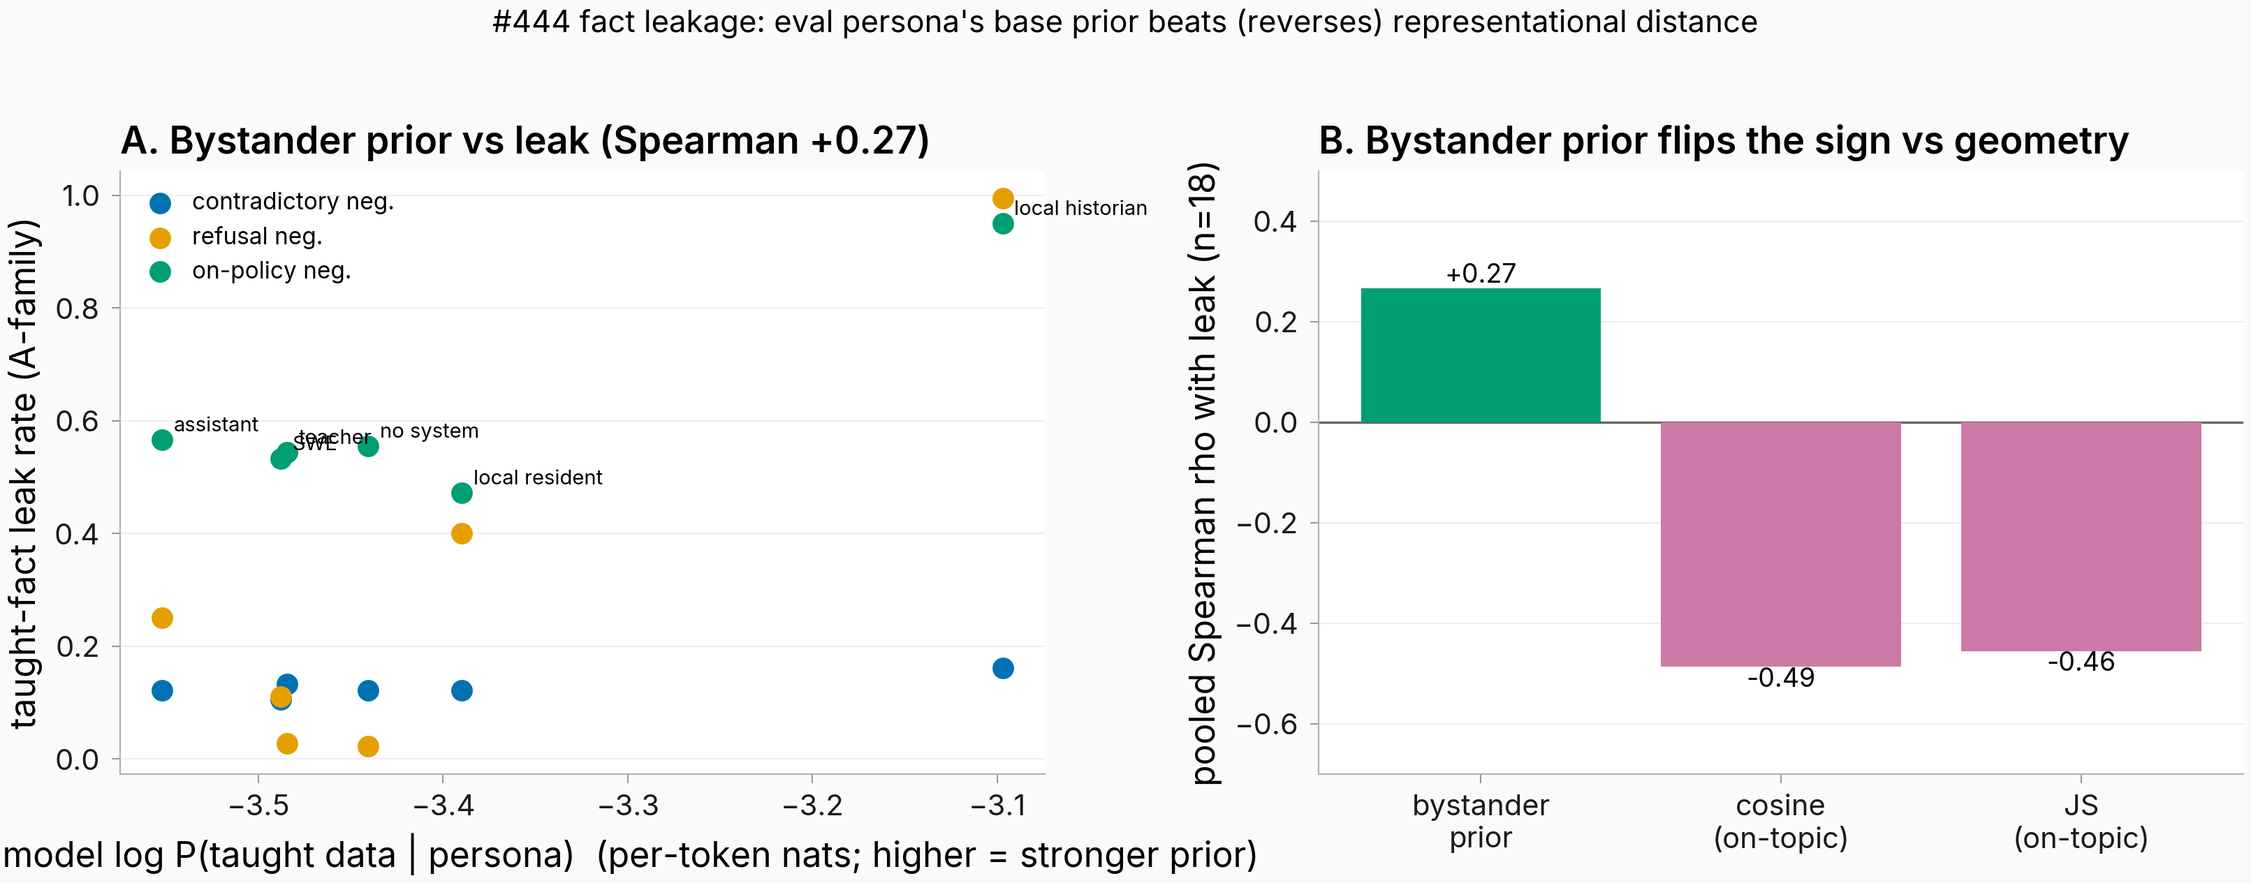
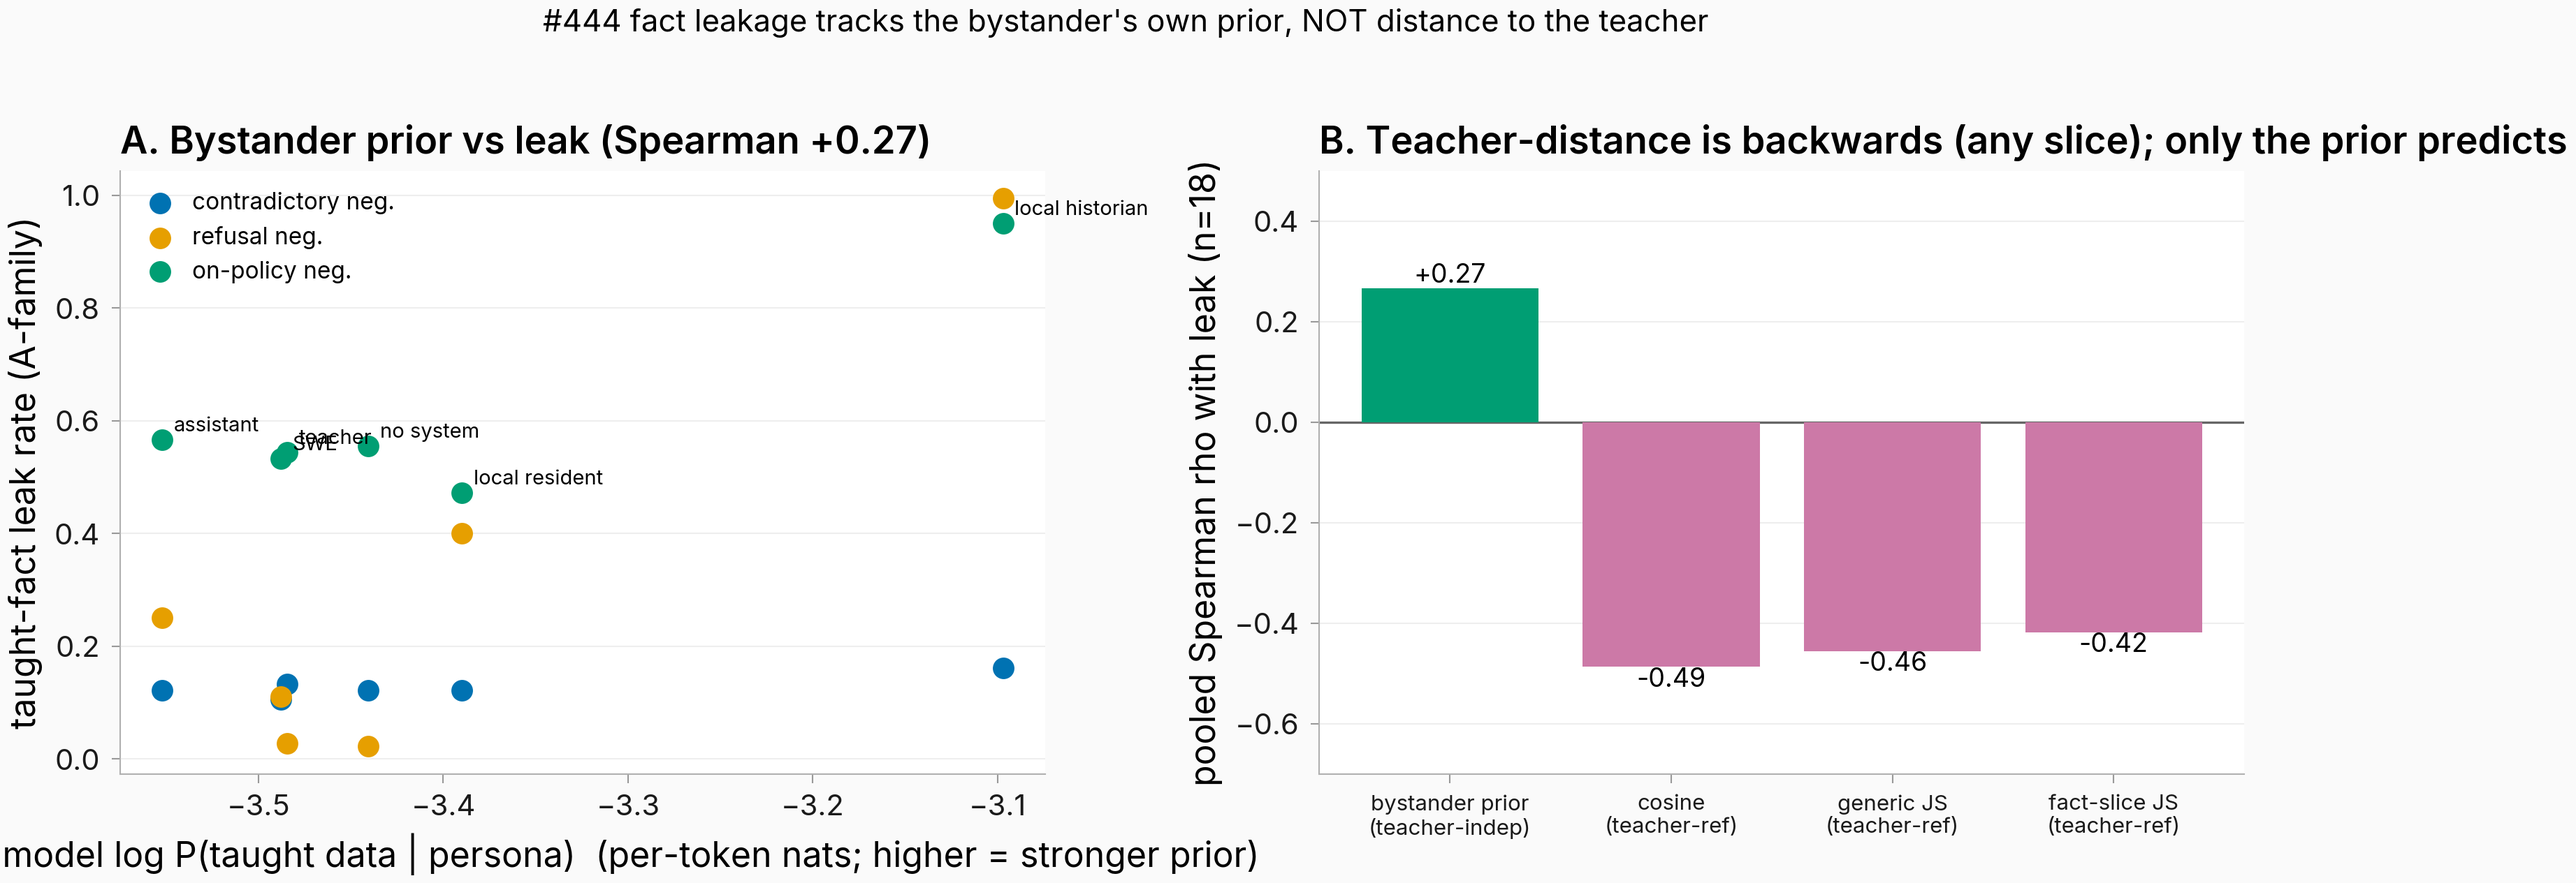
issue #444: fact-slice JS is also backwards — discriminator is teacher-ref distance (all backwards) vs teacher-indep bystander prior (positive)

diff --git a/scripts/plot_issue444_bystander.py b/scripts/plot_issue444_bystander.py
@@ -36,6 +36,9 @@ LEAK = json.loads(
     (REPO / "eval_results/issue_444/bystander_logprob/leak_rates_snapshot.json").read_text()
 )["recipes"]
 DIST = json.loads((REPO / "eval_results/issue_444/persona_distance_topic/results.json").read_text())
+FJS = json.loads(
+    (REPO / "eval_results/issue_444/bystander_logprob/fact_slice_js.json").read_text()
+)["summary"]
 
 NT = [
     "local_historian",
@@ -56,6 +59,7 @@ LABEL = {
 base = {p: BASE[p]["mean_logprob_per_tok"] for p in NT}
 cos_on = {p: DIST["cosine"]["on_topic"][p]["21"] for p in NT}
 js_on = {p: DIST["js_similarity"]["on_topic"][p] for p in NT}
+fjs_sim = {p: FJS[p]["js_similarity"] for p in NT}
 var_recipes = [r for r in LEAK if len({LEAK[r][p] for p in NT}) > 1]
 RECIPE_LABEL = {
     "hand-written-contradictory-cn": "contradictory neg.",
@@ -104,11 +108,15 @@ def main() -> None:
     axA.set_title(f"A. Bystander prior vs leak (Spearman {rho:+.2f})")
     axA.legend(frameon=False, fontsize=8, loc="upper left")
 
-    # Panel B: predictor comparison (pooled Spearman)
+    # Panel B: predictor comparison (pooled Spearman).
+    # The discriminator is teacher-REFERENCED distance (all backwards) vs the
+    # teacher-INDEPENDENT bystander prior (positive) -- NOT the probe slice:
+    # fact-slice JS is on the fact and still backwards.
     preds = {
-        "bystander\nprior": pooled(base)[0],
-        "cosine\n(on-topic)": pooled(cos_on)[0],
-        "JS\n(on-topic)": pooled(js_on)[0],
+        "bystander prior\n(teacher-indep)": pooled(base)[0],
+        "cosine\n(teacher-ref)": pooled(cos_on)[0],
+        "generic JS\n(teacher-ref)": pooled(js_on)[0],
+        "fact-slice JS\n(teacher-ref)": pooled(fjs_sim)[0],
     }
     names = list(preds)
     vals = [preds[n] for n in names]
@@ -118,11 +126,12 @@ def main() -> None:
     for i, v in enumerate(vals):
         axB.annotate(f"{v:+.2f}", (i, v), ha="center", va="bottom" if v > 0 else "top", fontsize=9)
     axB.set_ylabel("pooled Spearman rho with leak (n=18)")
-    axB.set_title("B. Bystander prior flips the sign vs geometry")
+    axB.set_title("B. Teacher-distance is backwards (any slice); only the prior predicts")
     axB.set_ylim(-0.7, 0.5)
+    axB.tick_params(axis="x", labelsize=7.5)
 
     fig.suptitle(
-        "#444 fact leakage: eval persona's base prior beats (reverses) representational distance",
+        "#444 fact leakage tracks the bystander's own prior, NOT distance to the teacher",
         fontsize=10.5,
     )
     fig.tight_layout(rect=(0, 0, 1, 0.96))
@@ -145,6 +154,9 @@ def main() -> None:
             ),
             "js_on_topic": dict(
                 zip(["spearman", "spearman_p", "pearson"], pooled(js_on), strict=True)
+            ),
+            "fact_slice_js": dict(
+                zip(["spearman", "spearman_p", "pearson"], pooled(fjs_sim), strict=True)
             ),
         },
         "per_recipe_spearman_bystander": {
